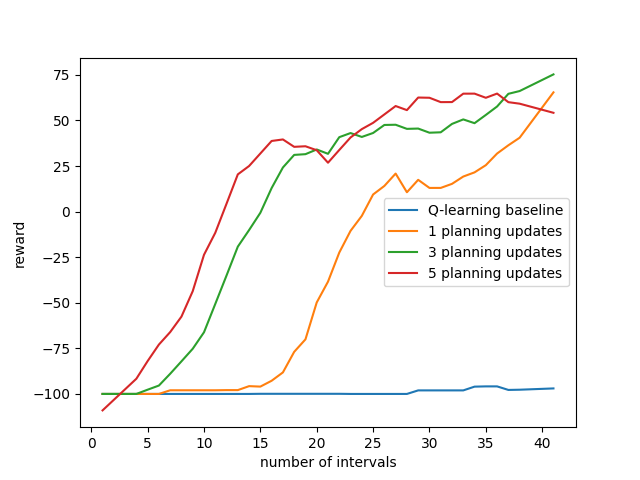
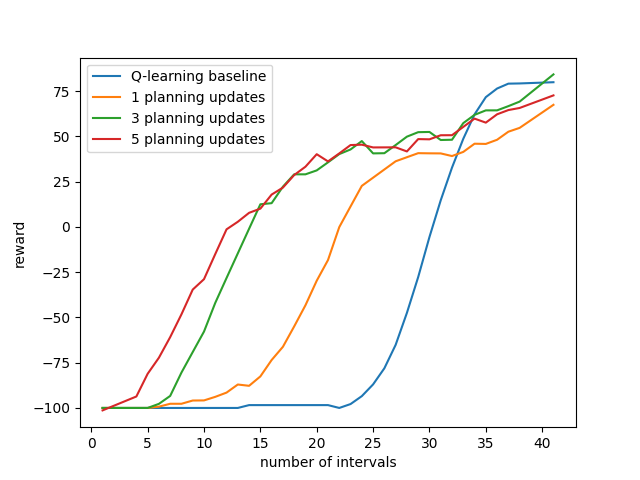
plotting all

diff --git a/MBRLAgents.py b/MBRLAgents.py
@@ -37,8 +37,8 @@ class DynaAgent:
         # TO DO: Add Dyna update
         self.transition_counts[s][a][s_next] += 1
         self.reward_sums[s][a][s_next] += r
-        if not done:
-            self.Q_sa[s, a] += self.learning_rate * (r + self.gamma * np.max(self.Q_sa[s_next]) - self.Q_sa[s,a])
+        #if not done:
+        self.Q_sa[s, a] += self.learning_rate * (r + self.gamma * np.max(self.Q_sa[s_next]) - self.Q_sa[s,a])
 
         for k in range(n_planning_updates):
             s = np.random.choice(self.n_states)

diff --git a/MBRLExperiment.py b/MBRLExperiment.py
@@ -43,7 +43,6 @@ def experiment():
     for i in range(len(all_avg_evals)):
         smoothed_eval = smooth(all_avg_evals[i], 8)  # Adjust window_size as needed
         if n_planning_updates[i] == 0:
-            print(all_evals[0], smoothed_eval)
             plt.plot(range(1, len(all_avg_evals[i]) + 1), smoothed_eval, label=f"Q-learning baseline")
         else:
             plt.plot(range(1, len(all_avg_evals[i]) + 1), smoothed_eval, label=f"{n_planning_updates[i]} planning updates")
